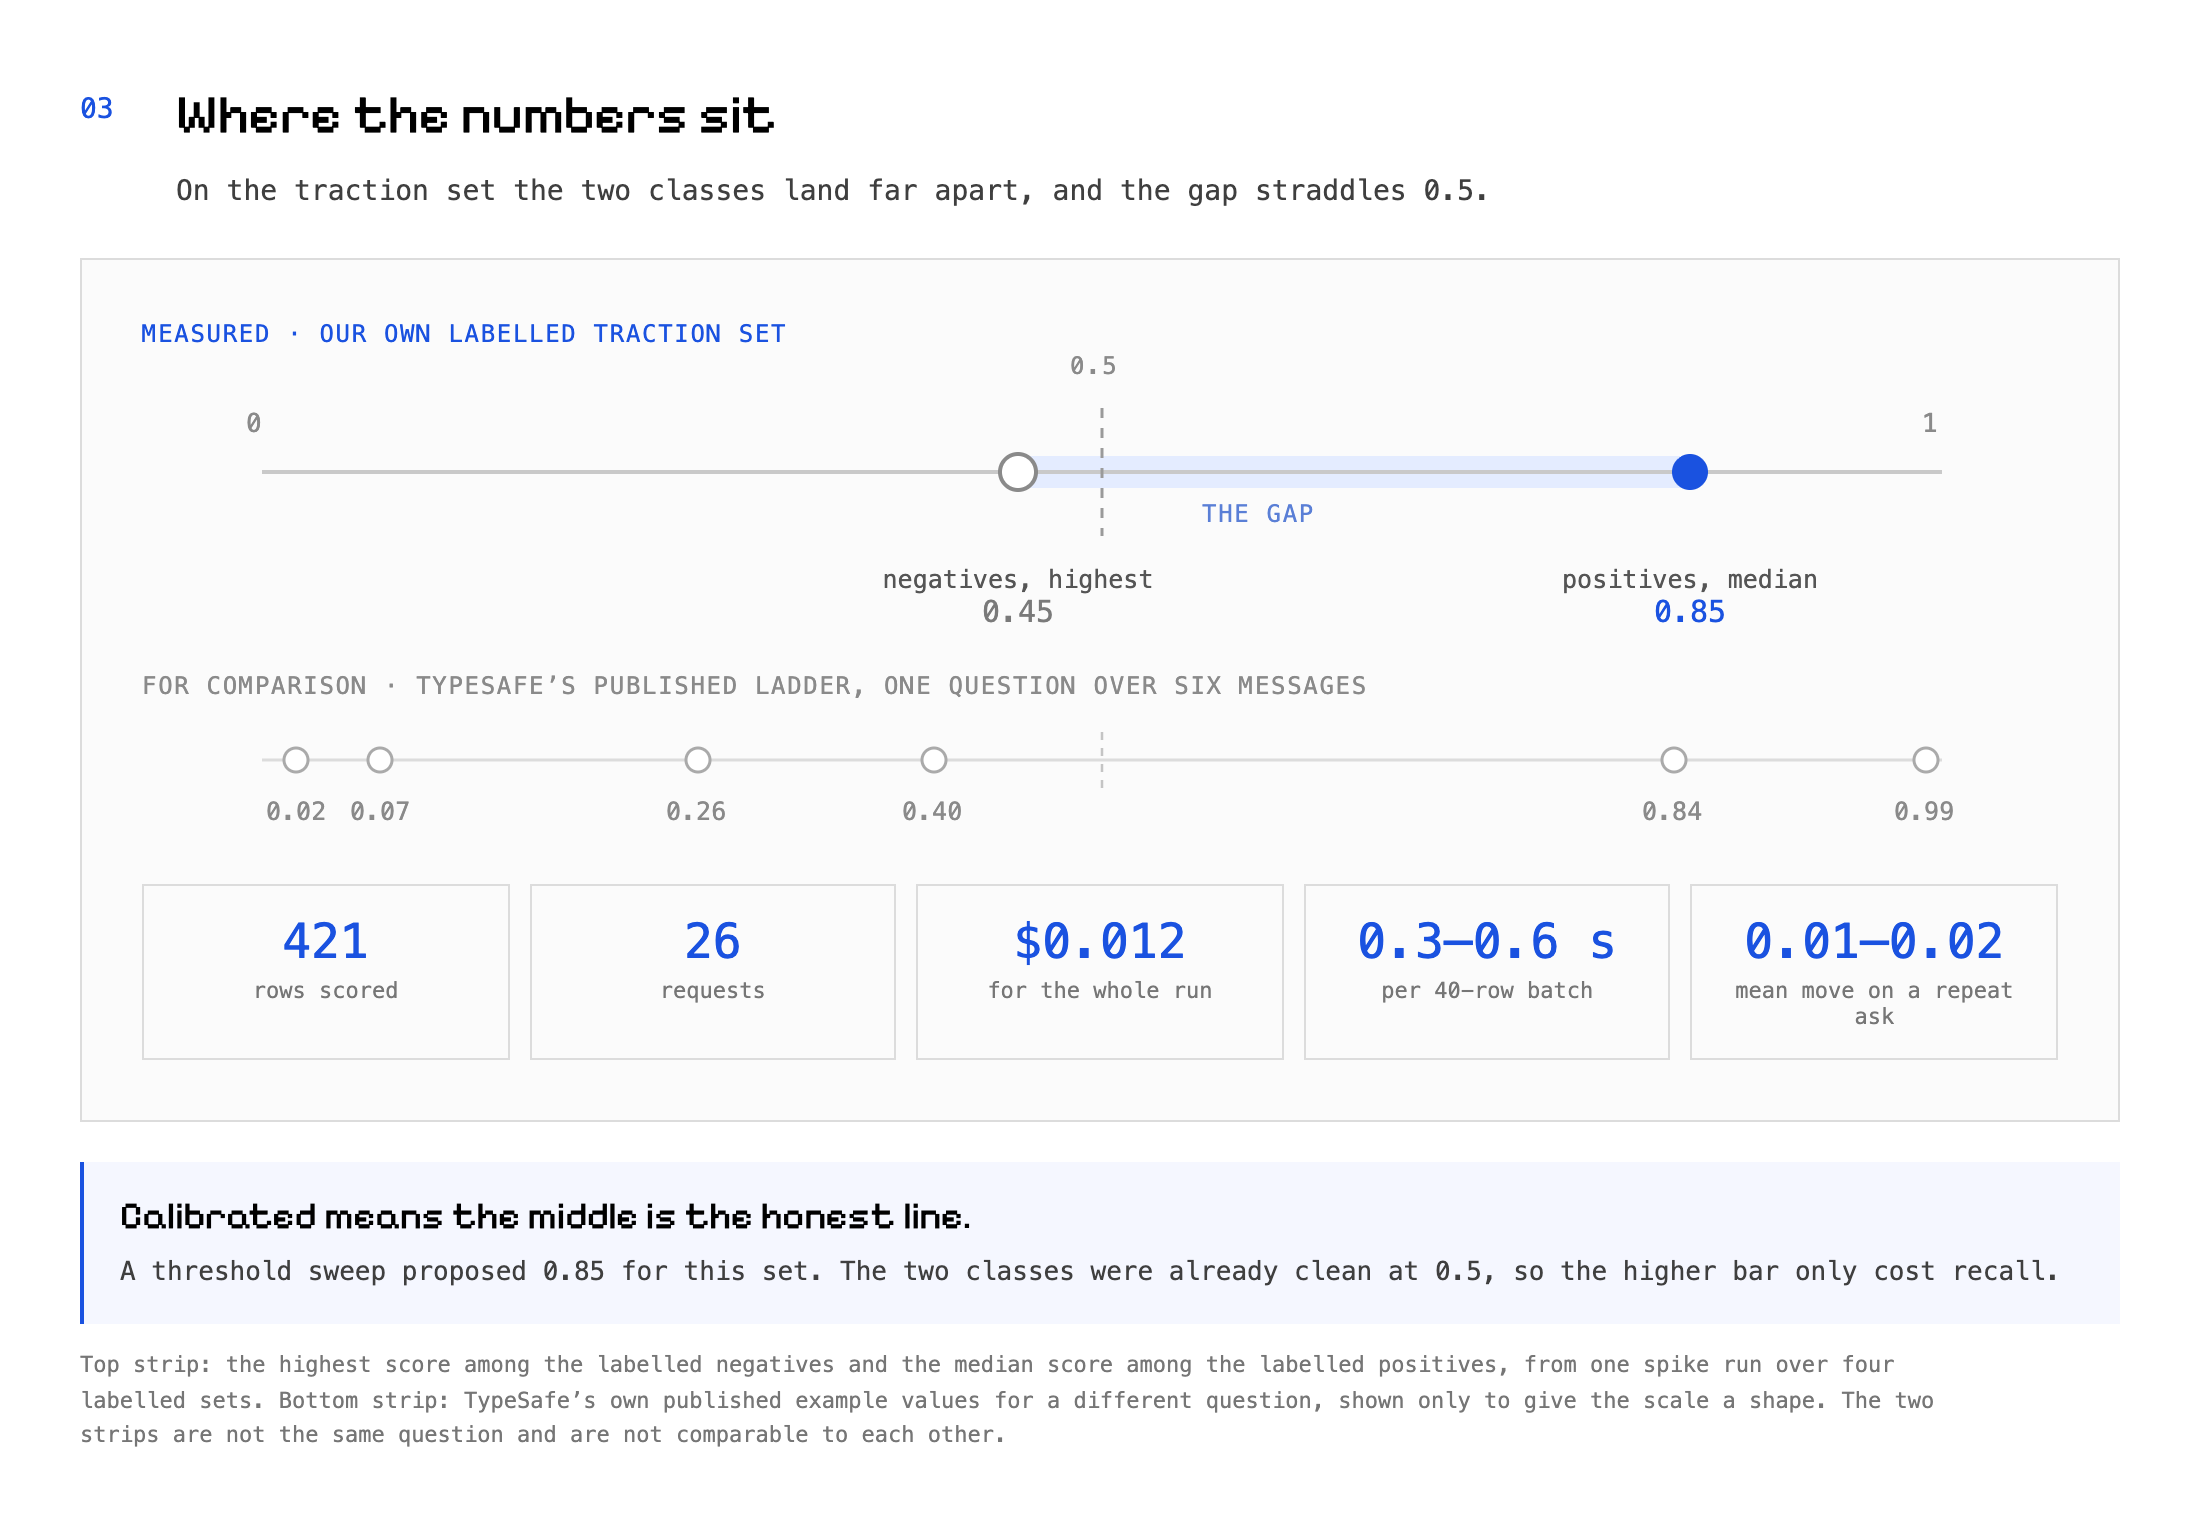
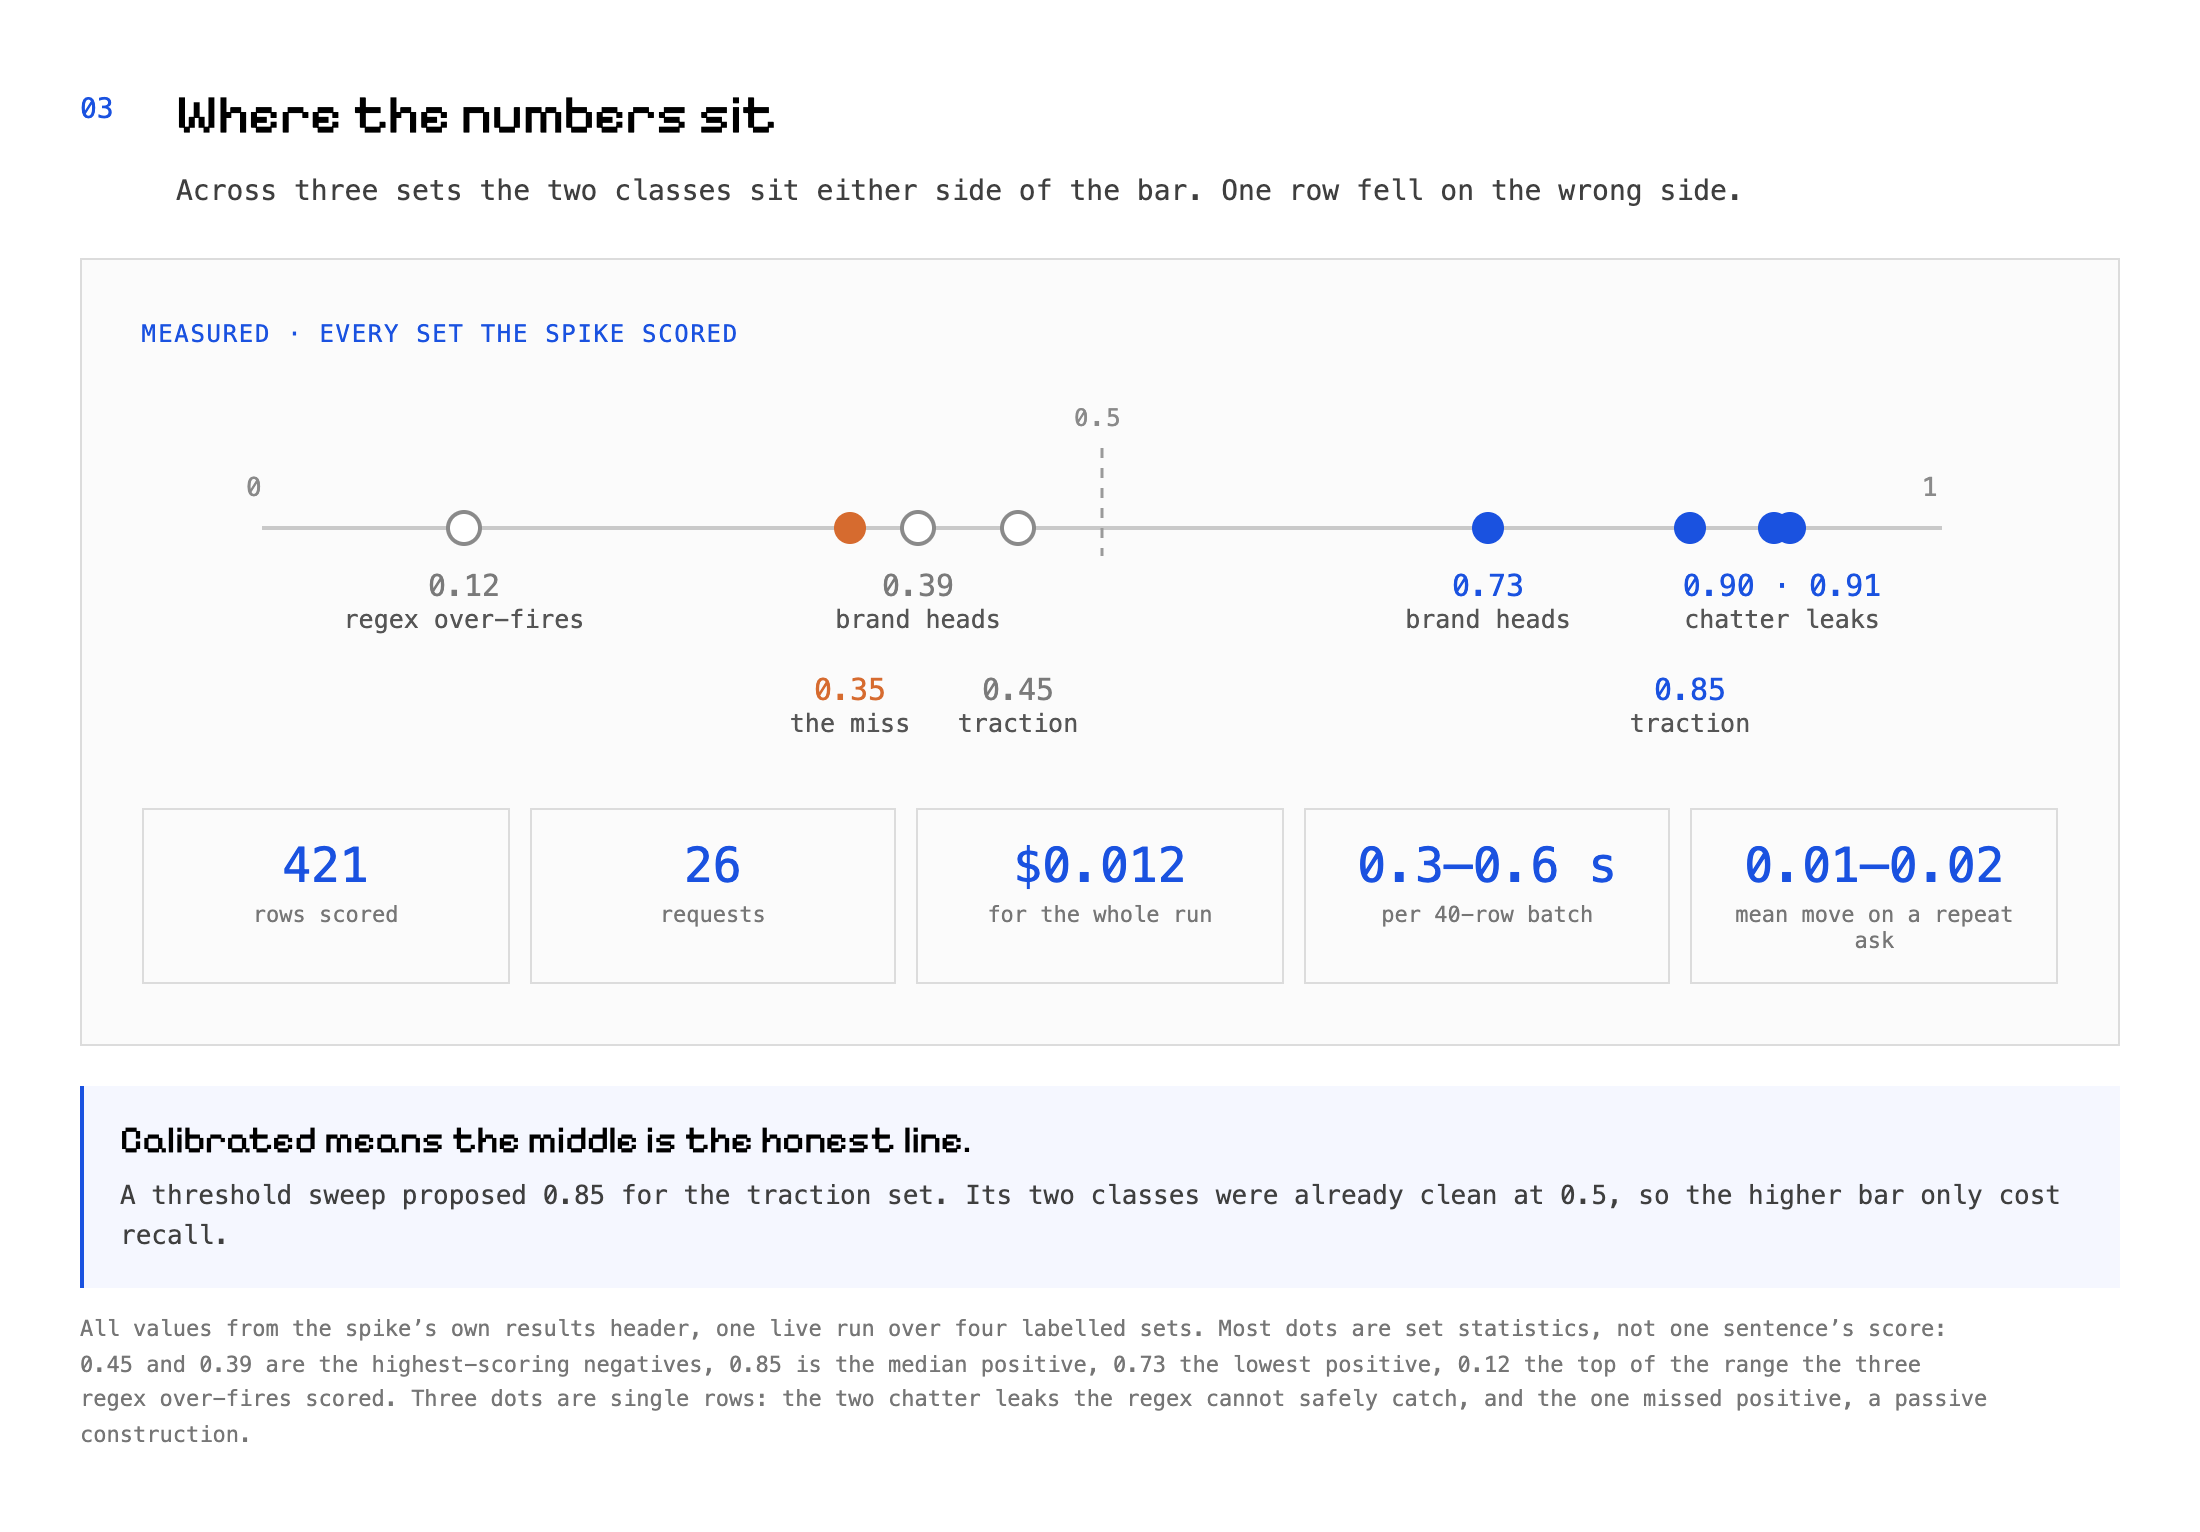
reading(jev): restore spike numbers in 03 and hook
Claude-Session: https://claude.ai/code/session_01RUEUmnpkCv6Cm8zXUByTM3

diff --git a/reading/jev/diagrams/index.html b/reading/jev/diagrams/index.html
@@ -228,48 +228,41 @@ body { background: #d9d9d9; font-family: var(--mono); color: var(--text); paddin
     <span class="shot-index">03</span>
     <div>
       <h2>Where the numbers sit</h2>
-      <p>On the traction set the two classes land far apart, and the gap straddles 0.5.</p>
+      <p>Across three sets the two classes sit either side of the bar. One row fell on the wrong side.</p>
     </div>
   </div>
   <div class="scene">
-    <div class="stage" style="height:262px;">
+    <div class="stage" style="height:224px;">
 
-      <!-- measured strip: 0 -> x=60, 1 -> x=900 -->
-      <div class="pin mono-caption" style="left:0;top:0;">measured &middot; our own labelled traction set</div>
+      <!-- one 0 to 1 track: 0 -> x=60, 1 -> x=900 -->
+      <div class="pin mono-caption" style="left:0;top:0;">measured &middot; every set the spike scored</div>
+      <div class="pin mono-caption gray" style="left:466px;top:42px;">0.5</div>
 
-      <svg class="pin" style="left:0;top:34px;" width="960" height="92" viewBox="0 0 960 92">
-        <rect x="438" y="34" width="336" height="16" fill="#e4ecff"/>
-        <path d="M60 42 H900" stroke="#c9c9c9" stroke-width="2"/>
-        <path d="M480 10 V74" stroke="#9a9a9a" stroke-width="1.4" stroke-dasharray="5 5" fill="none"/>
-        <circle cx="438" cy="42" r="9" fill="#fff" stroke="#8a8a8a" stroke-width="2"/>
-        <circle cx="774" cy="42" r="9" fill="#1a52e0"/>
-        <text x="52" y="22" font-family="ui-monospace,Menlo,monospace" font-size="13" fill="#8a8a8a">0</text>
-        <text x="890" y="22" font-family="ui-monospace,Menlo,monospace" font-size="13" fill="#8a8a8a">1</text>
+      <svg class="pin" style="left:0;top:34px;" width="960" height="100" viewBox="0 0 960 100">
+        <path d="M60 70 H900" stroke="#c9c9c9" stroke-width="2"/>
+        <path d="M480 30 V84" stroke="#9a9a9a" stroke-width="1.4" stroke-dasharray="5 5" fill="none"/>
+        <text x="52" y="54" font-family="ui-monospace,Menlo,monospace" font-size="13" fill="#8a8a8a">0</text>
+        <text x="890" y="54" font-family="ui-monospace,Menlo,monospace" font-size="13" fill="#8a8a8a">1</text>
+        <circle cx="161" cy="70" r="8" fill="#fff" stroke="#8a8a8a" stroke-width="2"/>
+        <circle cx="388" cy="70" r="8" fill="#fff" stroke="#8a8a8a" stroke-width="2"/>
+        <circle cx="438" cy="70" r="8" fill="#fff" stroke="#8a8a8a" stroke-width="2"/>
+        <circle cx="354" cy="70" r="8" fill="#d66b2f"/>
+        <circle cx="673" cy="70" r="8" fill="#1a52e0"/>
+        <circle cx="774" cy="70" r="8" fill="#1a52e0"/>
+        <circle cx="816" cy="70" r="8" fill="#1a52e0"/>
+        <circle cx="824" cy="70" r="8" fill="#1a52e0"/>
       </svg>
 
-      <div class="pin mono-caption gray" style="left:464px;top:16px;">0.5</div>
-      <div class="pin mono-caption" style="left:530px;top:90px;color:#5a7fd6;">the gap</div>
-      <div class="pin dotlab" style="left:328px;top:122px;width:220px;text-align:center;">negatives, highest<br><span class="val g">0.45</span></div>
-      <div class="pin dotlab" style="left:664px;top:122px;width:220px;text-align:center;">positives, median<br><span class="val">0.85</span></div>
+      <!-- label lane 1 -->
+      <div class="pin dotlab" style="left:86px;top:124px;width:150px;text-align:center;"><span class="val g">0.12</span><br>regex over-fires</div>
+      <div class="pin dotlab" style="left:328px;top:124px;width:120px;text-align:center;"><span class="val g">0.39</span><br>brand heads</div>
+      <div class="pin dotlab" style="left:613px;top:124px;width:120px;text-align:center;"><span class="val">0.73</span><br>brand heads</div>
+      <div class="pin dotlab" style="left:755px;top:124px;width:130px;text-align:center;"><span class="val">0.90 &middot; 0.91</span><br>chatter leaks</div>
 
-      <!-- vendor ladder: 0 -> x=60, 1 -> x=900 -->
-      <div class="pin mono-caption gray" style="left:0;top:176px;">for comparison &middot; typesafe&rsquo;s published ladder, one question over six messages</div>
-      <svg class="pin" style="left:0;top:202px;" width="960" height="56" viewBox="0 0 960 56">
-        <path d="M60 18 H900" stroke="#dcdcdc" stroke-width="1.5"/>
-        <circle cx="77" cy="18" r="6" fill="#fff" stroke="#aaa" stroke-width="1.5"/>
-        <circle cx="119" cy="18" r="6" fill="#fff" stroke="#aaa" stroke-width="1.5"/>
-        <circle cx="278" cy="18" r="6" fill="#fff" stroke="#aaa" stroke-width="1.5"/>
-        <circle cx="396" cy="18" r="6" fill="#fff" stroke="#aaa" stroke-width="1.5"/>
-        <circle cx="766" cy="18" r="6" fill="#fff" stroke="#aaa" stroke-width="1.5"/>
-        <circle cx="892" cy="18" r="6" fill="#fff" stroke="#aaa" stroke-width="1.5"/>
-        <path d="M480 4 V34" stroke="#c4c4c4" stroke-width="1.3" stroke-dasharray="4 4" fill="none"/>
-        <text x="62" y="48" font-family="ui-monospace,Menlo,monospace" font-size="12.5" fill="#8a8a8a">0.02</text>
-        <text x="104" y="48" font-family="ui-monospace,Menlo,monospace" font-size="12.5" fill="#8a8a8a">0.07</text>
-        <text x="262" y="48" font-family="ui-monospace,Menlo,monospace" font-size="12.5" fill="#8a8a8a">0.26</text>
-        <text x="380" y="48" font-family="ui-monospace,Menlo,monospace" font-size="12.5" fill="#8a8a8a">0.40</text>
-        <text x="750" y="48" font-family="ui-monospace,Menlo,monospace" font-size="12.5" fill="#8a8a8a">0.84</text>
-        <text x="876" y="48" font-family="ui-monospace,Menlo,monospace" font-size="12.5" fill="#8a8a8a">0.99</text>
-      </svg>
+      <!-- label lane 2 -->
+      <div class="pin dotlab" style="left:316px;top:176px;width:76px;text-align:center;"><span class="val o">0.35</span><br>the miss</div>
+      <div class="pin dotlab" style="left:400px;top:176px;width:76px;text-align:center;"><span class="val g">0.45</span><br>traction</div>
+      <div class="pin dotlab" style="left:736px;top:176px;width:76px;text-align:center;"><span class="val">0.85</span><br>traction</div>
     </div>
 
     <div class="stat-row">
@@ -282,9 +275,9 @@ body { background: #d9d9d9; font-family: var(--mono); color: var(--text); paddin
   </div>
   <div class="callout">
     <strong>Calibrated means the middle is the honest line.</strong>
-    <p>A threshold sweep proposed 0.85 for this set. The two classes were already clean at 0.5, so the higher bar only cost recall.</p>
+    <p>A threshold sweep proposed 0.85 for the traction set. Its two classes were already clean at 0.5, so the higher bar only cost recall.</p>
   </div>
-  <p class="footnote">Top strip: the highest score among the labelled negatives and the median score among the labelled positives, from one spike run over four labelled sets. Bottom strip: TypeSafe&rsquo;s own published example values for a different question, shown only to give the scale a shape. The two strips are not the same question and are not comparable to each other.</p>
+  <p class="footnote">All values from the spike&rsquo;s own results header, one live run over four labelled sets. Most dots are set statistics, not one sentence&rsquo;s score: 0.45 and 0.39 are the highest-scoring negatives, 0.85 is the median positive, 0.73 the lowest positive, 0.12 the top of the range the three regex over-fires scored. Three dots are single rows: the two chatter leaks the regex cannot safely catch, and the one missed positive, a passive construction.</p>
 </div>
 
 <!-- ============================ 04 ============================ -->

diff --git a/reading/jev/index.html b/reading/jev/index.html
@@ -64,7 +64,7 @@
   <h1>A list can never finish</h1>
   <p class="reading-paper-title">How a calibrated yes/no model replaced our regex gates, and where I would use one next</p>
   <p class="reading-story-hook">One noun got past the gate. One question caught it.</p>
-  <p class="detail-lead">A closed list of nouns let a real claim through, because the business sold to bakers and bakers was not on the list. No version of that list is the finished one. A question needs no list at all.</p>
+  <p class="detail-lead">A closed list of nouns let a real claim through, because the business sold to bakers and bakers was not on the list. Eleven fix rounds had already widened that list. It can never finish. A question can.</p>
 </header>
 <dl class="meta-list reading-meta-list">
   <div><dt>written</dt><dd>21 September 2026</dd></div>
@@ -76,7 +76,7 @@
 <section class="reading-text-section">
 <p>A line of landing copy read: “2,000 bakers already bake with us.” It passed one of our gates.</p>
 <p>The gate was looking for customers, users, subscribers. Bakers was not on the list.</p>
-<p>The list had been widened before. Every trade has its own word for the people who buy from it. Bakers. Riders. Patients. Students. Each round of fixes added a few more and missed the next few, because the next business was in a trade nobody on the team had thought of yet.</p>
+<p>Eleven fix rounds widened the list. Every trade has its own word for the people who buy from it. Bakers. Riders. Patients. Students. Each round of fixes added a few more and missed the next few, because the next business was in a trade nobody on the team had thought of yet.</p>
 <p>That is the shape of the problem. A closed list of nouns has no finished version. There is no last noun.</p>
 <p>So we replaced the list with one question, and the question did not need a list.</p>
 </section>
@@ -130,8 +130,8 @@
 </section>
 
 <figure class="detail-media diagram">
-  <a href="img/03-where-numbers-sit.png"><img src="img/03-where-numbers-sit.png" alt="Diagram: a zero to one strip with a dashed line at 0.5. A hollow gray dot at 0.45 marks the highest-scoring negative and a solid blue dot at 0.85 marks the median positive, with a shaded band between them. Below, TypeSafe's published example values, and five stat tiles reading 421 rows, 26 requests, $0.012, 0.3 to 0.6 seconds, and 0.01 to 0.02." loading="lazy"></a>
-  <figcaption>The two classes land far apart, and the gap straddles the middle. That is what calibrated buys you.</figcaption>
+  <a href="img/03-where-numbers-sit.png"><img src="img/03-where-numbers-sit.png" alt="Diagram: a zero to one strip with a dashed line at 0.5. Hollow gray dots at 0.12, 0.39 and 0.45 sit left of the line, solid blue dots at 0.73, 0.85, 0.90 and 0.91 sit right of it, and one orange dot at 0.35 marks the single missed positive. Five stat tiles below read 421 rows, 26 requests, $0.012, 0.3 to 0.6 seconds, and 0.01 to 0.02." loading="lazy"></a>
+  <figcaption>Negatives left of the bar, positives right of it, across three sets. The one orange dot is the only row that landed on the wrong side.</figcaption>
 </figure>
 
 <section class="reading-text-section">
